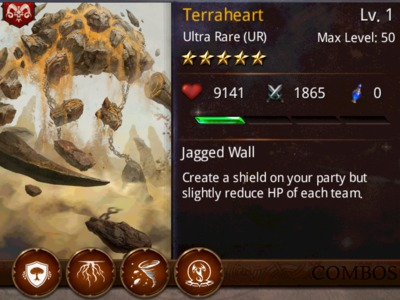
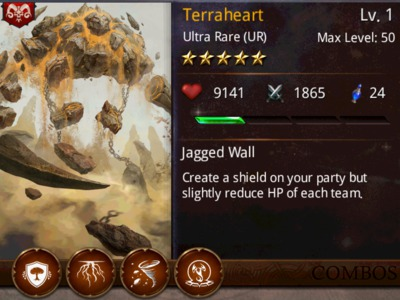
Update some cards screenshot and mana value

diff --git a/cards.js b/cards.js
@@ -3,7 +3,7 @@ var cards = [
   new Card("Ageless Scorpion", "Druid", 5, 15, 50, 8085, 2508, ["Desert Guardians","Goliaths","Toxic Death",]),
   new Card("Aleria", "Druid", 5, "", 50, 7740, 1863, ["Umbral Spirits",]),
   new Card("Alpha Stag", "Druid", 3, 7, 30, 2611, 846, ["Stag Herder","Wild Pack","Blessed Stag Rider","Druid Warband","Stag Pack",]),
-  new Card("Amythestine", "Druid", 5, "", 50, 6754, 2105, ["Umbral Spirits",]),
+  new Card("Amythestine", "Druid", 5, 18, 50, 6754, 2105, ["Umbral Spirits",]),
   new Card("Ancient Archelon", "Druid", 5, "", 50, 8131, 2436, ["Behemoths","Goliaths",]),
   new Card("Angel of Law", "Camelot", 5, "", 50, 7740, 1863, ["Merciful Angels","Blessings of Fate",]),
   new Card("Angela", "Camelot", 5, "", 50, 7192, 2236, ["Polar",]),
@@ -37,7 +37,7 @@ var cards = [
   new Card("Butcher of Princes", "Demon", 5, "", 50, 9999, 2222, ["Body Count",]),
   new Card("Caradd the Gale", "Druid", 5, "", 50, 6456, 1992, ["Nature's Wrath","Elemental Fury","Fury of the Skies","Thunder's Fury",]),
   new Card("Celestial Lion", "Camelot", 3, 10, 30, 4200, 1013, ["Heroic Beasts",]),
-  new Card("Cernunnos", "Druid", 5, "", 50, 7740, 1863, ["Umbral Spirits","Stag Pack",]),
+  new Card("Cernunnos", "Druid", 5, 18, 50, 7740, 1863, ["Umbral Spirits","Stag Pack",]),
   new Card("Chastity", "Demon", 5, "", 50, 9877, 3024, ["Thirst of Night",]),
   new Card("Cockatrice", "Druid", 4, 10, 40, 4296, 1349, ["Hybrid Beasts","Toxic Death",]),
   new Card("Crossbowman", "Camelot", 1, 6, 10, 1800, 440, ["Marksmen","Soldiers",]),
@@ -81,7 +81,7 @@ var cards = [
   new Card("Green Knight", "Camelot", 6, "", 60, 11240, 2640, ["Enigmatic Knights","Cold Killers","Cunning Foes","Shining Armor","Crack Knights",]),
   new Card("Grillmaster", "Camelot", 4, 11, 40, 4734, 1491, ["Patriots",]),
   new Card("Gryphon", "Camelot", 4, 10, 40, 4686, 1138, ["Hybrid Beasts",]),
-  new Card("Guardian Angel", "Camelot", 5, "", 50, 6600, 1550, ["Divine Intervention","Celestials","Blessed Knight Rider","Blessed Stag Rider","Merciful Angels",]),
+  new Card("Guardian Angel", "Camelot", 5, 13, 50, 6600, 1550, ["Divine Intervention","Celestials","Blessed Knight Rider","Blessed Stag Rider","Merciful Angels",]),
   new Card("Guinevere", "Camelot", 4, "", 40, 4680, 1144, ["Female Legends",]),
   new Card("Heavy Swordsman", "Camelot", 3, "", 30, 4060, 1020, ["Bruisers",]),
   new Card("Highlander", "Camelot", 5, "", 50, 7685, 2608, ["Mercenaries","King Size Weapons","Hired Steel",]),
@@ -91,7 +91,7 @@ var cards = [
   new Card("Huscarl", "Camelot", 4, 15, 50, 4785, 1780, ["Mercenaries","Hired Steel",]),
   new Card("Ice Mage", "Camelot", 3, 9, 30, 3766, 910, ["Magicians","Frozen Terrors","Thunder's Fury",]),
   new Card("Ironbark Overlord", "Druid", 6, "", 50, 10306, 3105, ["Living Forest","Unstoppable Force",]),
-  new Card("Jezebel the Fair", "Camelot", 5, "", 50, 7036, 1694, ["Fallen Heroes",]),
+  new Card("Jezebel the Fair", "Camelot", 5, 14, 50, 7036, 1694, ["Fallen Heroes",]),
   new Card("Jezebel the Shriek", "Demon", 5, "", 50, 10306, 3105, ["Dark Arts","Corrupted","Aerial Doom","Beyond Redemption","League of the Damned",]),
   new Card("Karn", "Demon", 5, "", 50, 7025, 2213, ["Bone Spirit","Undead Party","Necro Party",]),
   new Card("Kel Earthbringer", "Druid", 6, 20, 60, 11330, 3480, ["Strength of Will","Geomancers",]),
@@ -154,7 +154,7 @@ var cards = [
   new Card("Sword Summoner", "Camelot", 5, "", 50, 8531, 2436, ["Strength of Will","Lords and Guards",]),
   new Card("Taal", "Camelot", 3, 9, 30, "", "", []),
   new Card("Telekinetic", "Camelot", 4, "", 40, 5013, 1512, ["Strength of Will",]),
-  new Card("Terraheart", "Demon", 5, "", 50, 9141, 1865, ["Earthen Might","Core Dwellers","Geomancers","Desert Guardians",]),
+  new Card("Terraheart", "Demon", 5, 24, 50, 9141, 1865, ["Earthen Might","Core Dwellers","Geomancers","Desert Guardians",]),
   new Card("The Horned Lord", "Druid", 5, 13, 50, 5980, 1852, ["Gods","Forest Guardians","Shamans","Theurgists","Stag Pack",]),
   new Card("The Prophet", "Camelot", 5, 15, 50, 6600, 1550, ["Mystics","Cunning Foes","Wise Sages","Premeditation",]),
   new Card("Thorn Witch", "Druid", 3, 10, 30, 3855, 1200, ["Regeneration","Thorny Threat",]),
